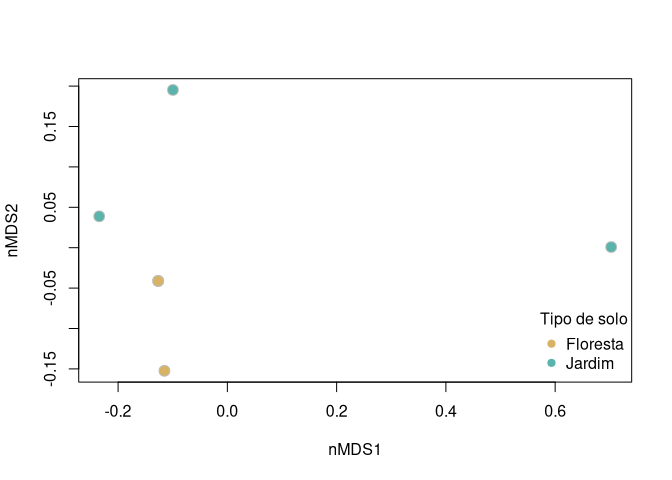
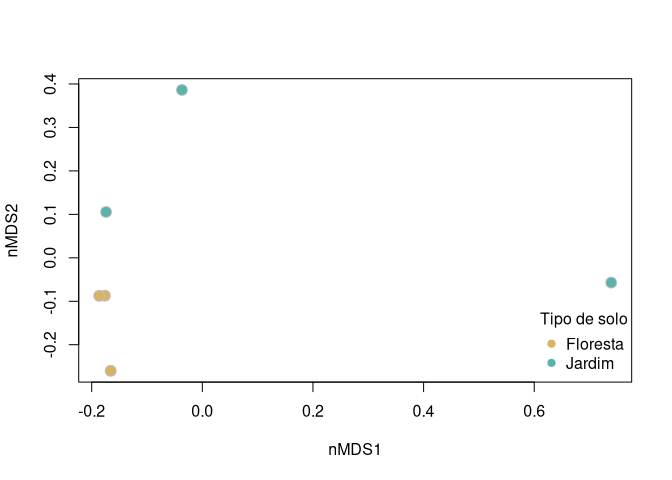
Correct figure legend

diff --git a/README.md b/README.md
@@ -514,47 +514,48 @@ nMDS <- metaMDS(nova_matriz)
     ## Square root transformation
     ## Wisconsin double standardization
     ## Run 0 stress 4.13728e-05 
-    ## Run 1 stress 9.128182e-05 
-    ## ... Procrustes: rmse 0.2010186  max resid 0.4204232 
-    ## Run 2 stress 4.516423e-05 
-    ## ... Procrustes: rmse 0.2453478  max resid 0.4495474 
-    ## Run 3 stress 8.067882e-05 
-    ## ... Procrustes: rmse 0.1901989  max resid 0.3604925 
-    ## Run 4 stress 8.218755e-05 
-    ## ... Procrustes: rmse 0.02555673  max resid 0.03575582 
-    ## Run 5 stress 9.66508e-05 
-    ## ... Procrustes: rmse 0.2729253  max resid 0.5022904 
-    ## Run 6 stress 8.942676e-05 
-    ## ... Procrustes: rmse 0.2244003  max resid 0.4489148 
-    ## Run 7 stress 6.95959e-06 
+    ## Run 1 stress 7.792355e-05 
+    ## ... Procrustes: rmse 0.2609111  max resid 0.4810808 
+    ## Run 2 stress 8.467838e-05 
+    ## ... Procrustes: rmse 0.2237641  max resid 0.4536209 
+    ## Run 3 stress 7.455552e-05 
+    ## ... Procrustes: rmse 0.09994344  max resid 0.12487 
+    ## Run 4 stress 9.60531e-05 
+    ## ... Procrustes: rmse 0.2029334  max resid 0.4180155 
+    ## Run 5 stress 9.246433e-05 
+    ## ... Procrustes: rmse 0.2308413  max resid 0.4560496 
+    ## Run 6 stress 1.161177e-05 
     ## ... New best solution
-    ## ... Procrustes: rmse 0.1664667  max resid 0.2793276 
-    ## Run 8 stress 8.977716e-05 
-    ## ... Procrustes: rmse 0.1390292  max resid 0.2438616 
-    ## Run 9 stress 3.078871e-05 
-    ## ... Procrustes: rmse 0.08545277  max resid 0.1518276 
-    ## Run 10 stress 3.93032e-05 
-    ## ... Procrustes: rmse 0.0447407  max resid 0.05546103 
-    ## Run 11 stress 9.158611e-05 
-    ## ... Procrustes: rmse 0.172679  max resid 0.3329735 
-    ## Run 12 stress 8.826582e-05 
-    ## ... Procrustes: rmse 0.08574533  max resid 0.1604192 
-    ## Run 13 stress 9.484057e-05 
-    ## ... Procrustes: rmse 0.1151131  max resid 0.223781 
-    ## Run 14 stress 9.976292e-05 
-    ## ... Procrustes: rmse 0.08142544  max resid 0.1037044 
-    ## Run 15 stress 3.355164e-05 
-    ## ... Procrustes: rmse 0.1018951  max resid 0.1856744 
-    ## Run 16 stress 4.878477e-05 
-    ## ... Procrustes: rmse 0.125582  max resid 0.2174882 
-    ## Run 17 stress 3.870281e-05 
-    ## ... Procrustes: rmse 0.1950512  max resid 0.333894 
-    ## Run 18 stress 9.906246e-05 
-    ## ... Procrustes: rmse 0.1390046  max resid 0.243519 
-    ## Run 19 stress 9.635809e-05 
-    ## ... Procrustes: rmse 0.1818369  max resid 0.3457872 
-    ## Run 20 stress 1.340627e-05 
-    ## ... Procrustes: rmse 0.008705149  max resid 0.0135992 
+    ## ... Procrustes: rmse 0.08032206  max resid 0.1315138 
+    ## Run 7 stress 0 
+    ## ... New best solution
+    ## ... Procrustes: rmse 0.1018502  max resid 0.2100494 
+    ## Run 8 stress 4.56584e-05 
+    ## ... Procrustes: rmse 0.1642582  max resid 0.2998489 
+    ## Run 9 stress 8.181737e-05 
+    ## ... Procrustes: rmse 0.07423409  max resid 0.1295417 
+    ## Run 10 stress 1.615977e-06 
+    ## ... Procrustes: rmse 0.2016702  max resid 0.380239 
+    ## Run 11 stress 5.627255e-05 
+    ## ... Procrustes: rmse 0.1192616  max resid 0.1800152 
+    ## Run 12 stress 9.625675e-05 
+    ## ... Procrustes: rmse 0.1083928  max resid 0.1761819 
+    ## Run 13 stress 1.061576e-05 
+    ## ... Procrustes: rmse 0.1159532  max resid 0.1922312 
+    ## Run 14 stress 9.244374e-05 
+    ## ... Procrustes: rmse 0.216497  max resid 0.4080098 
+    ## Run 15 stress 7.682814e-05 
+    ## ... Procrustes: rmse 0.1251158  max resid 0.1958773 
+    ## Run 16 stress 4.63153e-05 
+    ## ... Procrustes: rmse 0.1174873  max resid 0.1973034 
+    ## Run 17 stress 9.485527e-05 
+    ## ... Procrustes: rmse 0.08822841  max resid 0.1559866 
+    ## Run 18 stress 7.152949e-05 
+    ## ... Procrustes: rmse 0.08372714  max resid 0.1527429 
+    ## Run 19 stress 9.370475e-05 
+    ## ... Procrustes: rmse 0.1693213  max resid 0.3701862 
+    ## Run 20 stress 8.22077e-05 
+    ## ... Procrustes: rmse 0.1260262  max resid 0.2622662 
     ## *** Best solution was not repeated -- monoMDS stopping criteria:
     ##     20: stress < smin
 
@@ -596,13 +597,13 @@ with(legenda,
 nMDS$points
 ```
 
-    ##           MDS1          MDS2
-    ## SF1 -0.1151766 -0.1524328066
-    ## SF2 -0.1266004 -0.0411996184
-    ## SF3 -0.1266016 -0.0411829102
-    ## SJ1  0.7025901  0.0008024588
-    ## SJ3 -0.2345936  0.0388094375
-    ## SJ4 -0.0996179  0.1952034389
+    ##            MDS1        MDS2
+    ## SF1 -0.16565034 -0.26008496
+    ## SF2 -0.17618030 -0.08719807
+    ## SF3 -0.18642665 -0.08742133
+    ## SJ1  0.73913880 -0.05702096
+    ## SJ3 -0.17400367  0.10547421
+    ## SJ4 -0.03687785  0.38625111
     ## attr(,"centre")
     ## [1] TRUE
     ## attr(,"pc")
@@ -610,7 +611,7 @@ nMDS$points
     ## attr(,"halfchange")
     ## [1] TRUE
     ## attr(,"internalscaling")
-    ## [1] 2.992188
+    ## [1] 2.557032
 
 As amostras SF2 e SF3 obtiveram resultados praticamente iguais em termos
 de composição da comunidade.
@@ -839,8 +840,8 @@ Positive); - FN (False Negative).
 Se quisermos calcular accuracy:
 
 <figure>
-<img src="fig_1.png" alt="Figura 1" />
-<figcaption aria-hidden="true">Figura 1</figcaption>
+<img src="fig_1.png" alt="Observed vs real" />
+<figcaption aria-hidden="true">Observed vs real</figcaption>
 </figure>
 
 ``` r
